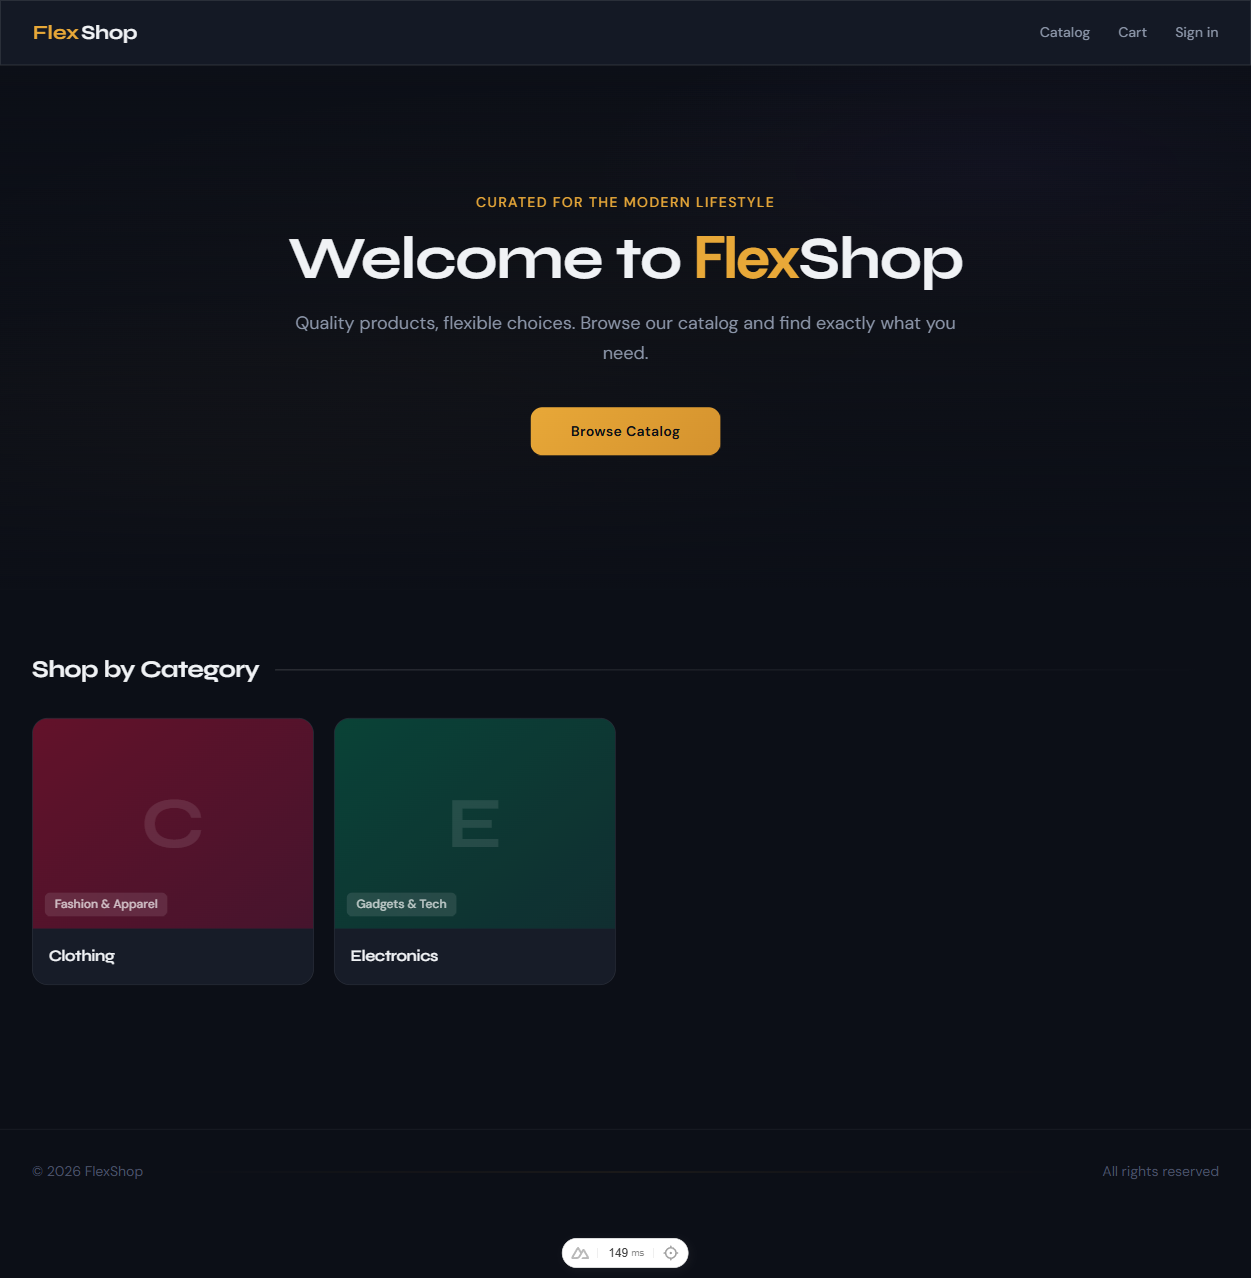
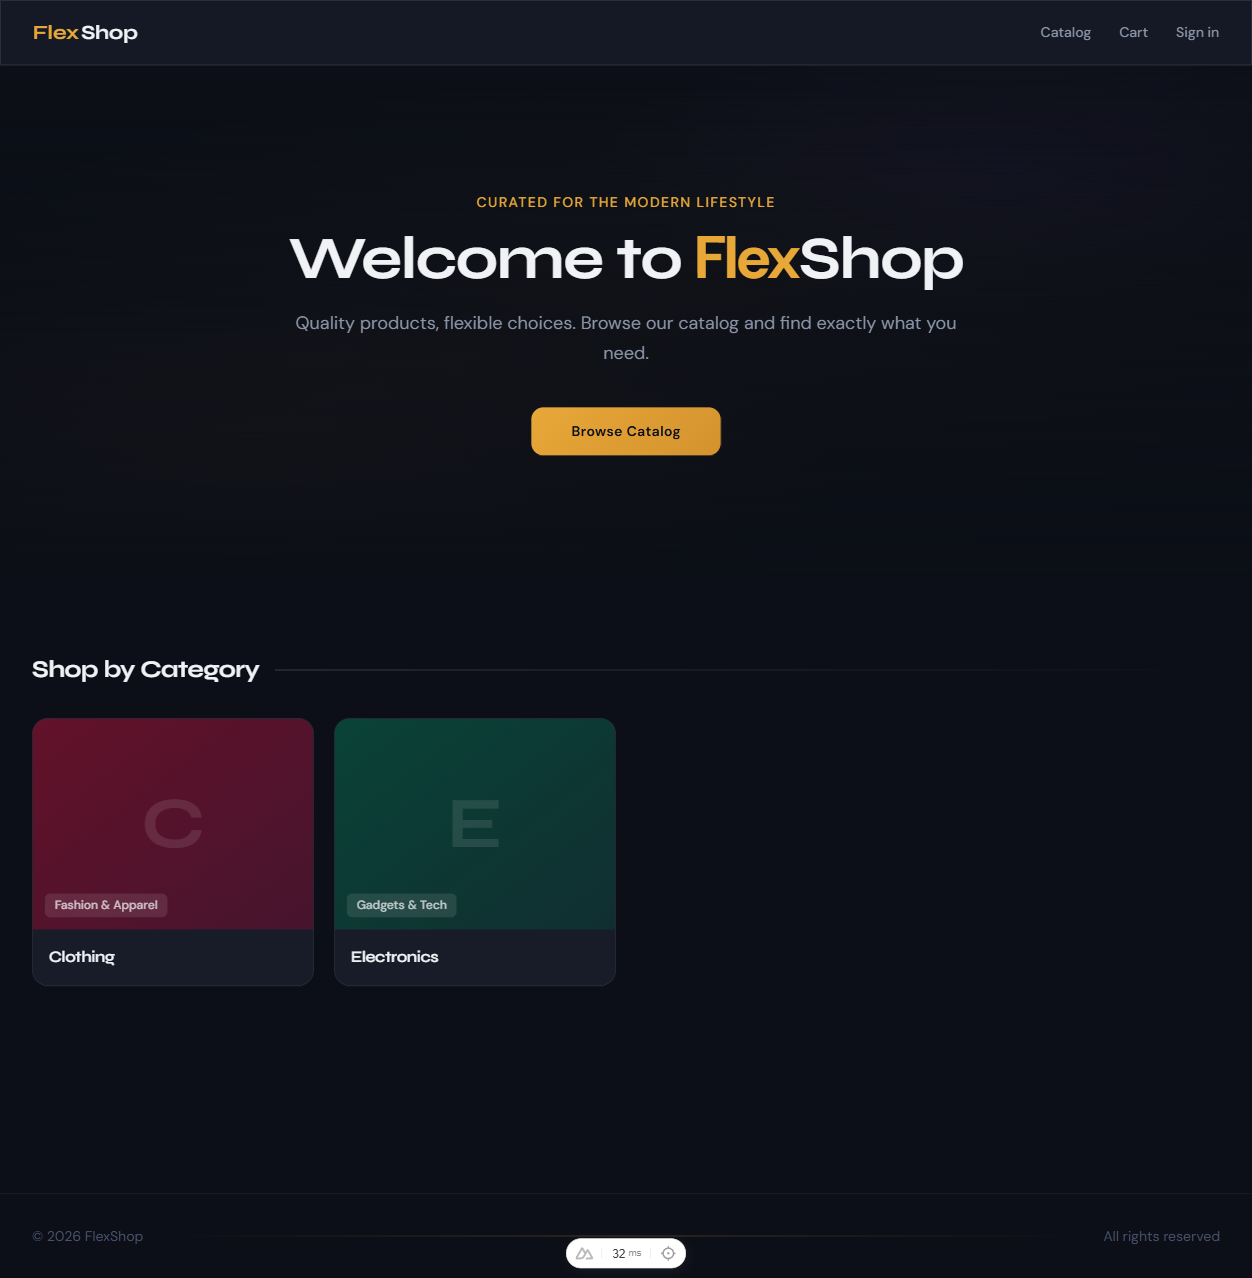
fix: pin footer to bottom with flexbox layout, update README screenshots

diff --git a/frontend/layouts/default.vue b/frontend/layouts/default.vue
@@ -1,5 +1,5 @@
 <template>
-  <div class="min-h-screen bg-surface-base text-[var(--text-primary)]">
+  <div class="min-h-screen bg-surface-base text-[var(--text-primary)] flex flex-col">
     <header class="fixed top-0 inset-x-0 z-50 glass-strong">
       <div class="max-w-7xl mx-auto px-4 sm:px-6 lg:px-8">
         <div class="flex justify-between items-center h-16">
@@ -51,10 +51,10 @@
         </div>
       </div>
     </header>
-    <main class="pt-16">
+    <main class="pt-16 flex-1">
       <slot />
     </main>
-    <footer class="border-t border-[var(--border-default)] mt-20">
+    <footer class="border-t border-[var(--border-default)]">
       <div class="max-w-7xl mx-auto px-4 sm:px-6 lg:px-8 py-8 flex items-center justify-between">
         <p class="text-sm text-muted">
           &copy; {{ new Date().getFullYear() }} FlexShop
